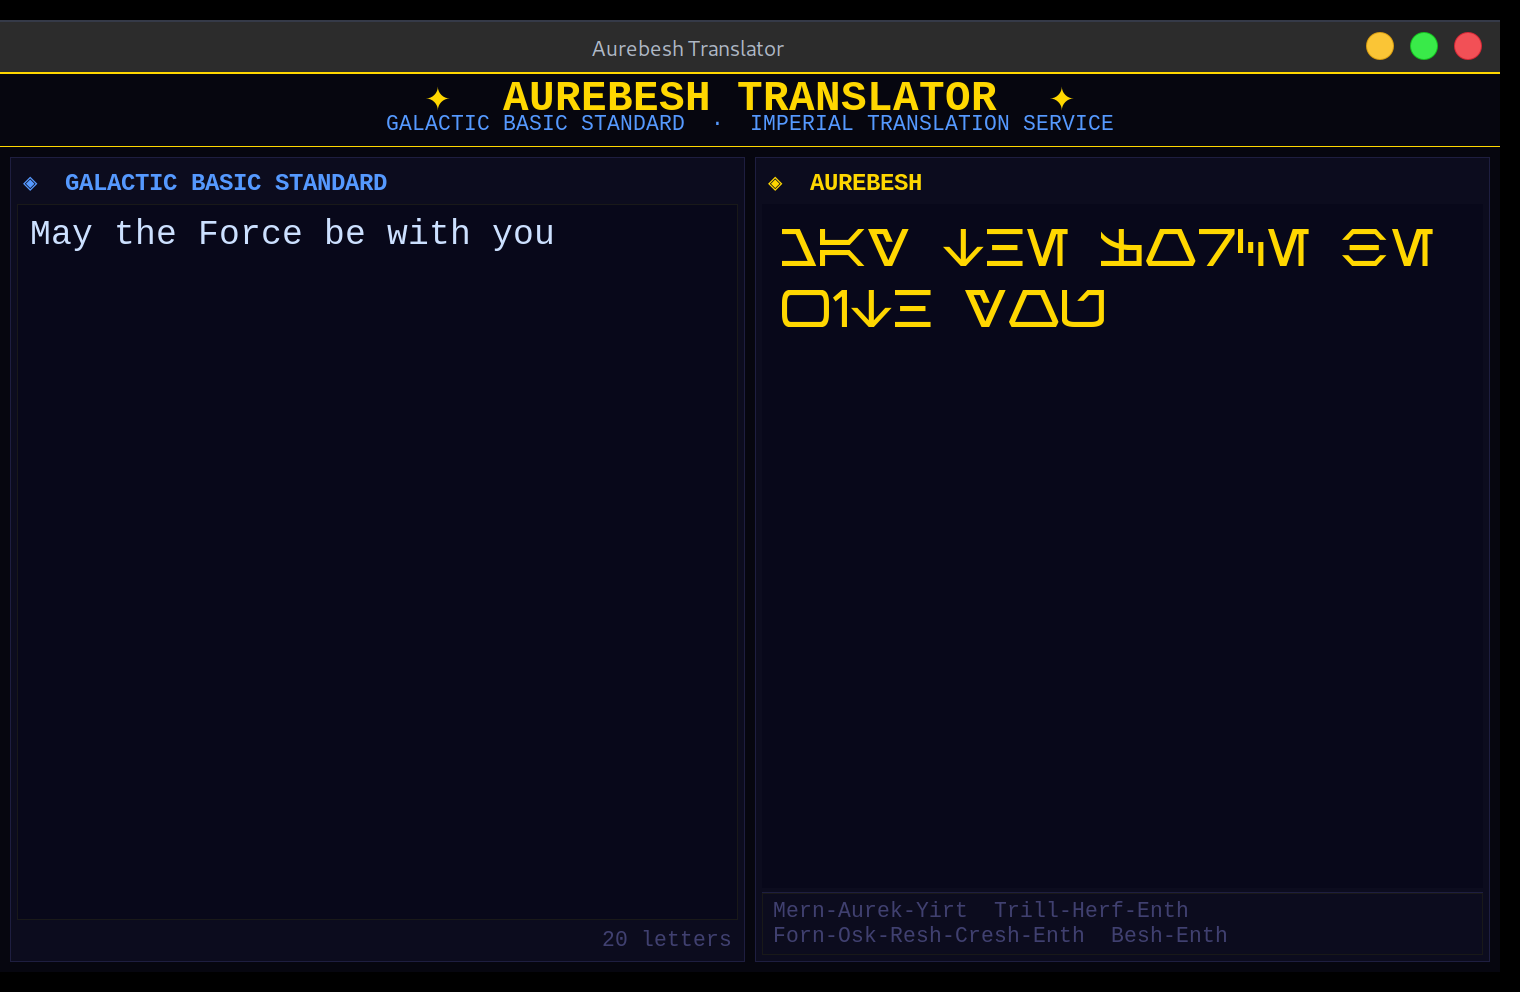
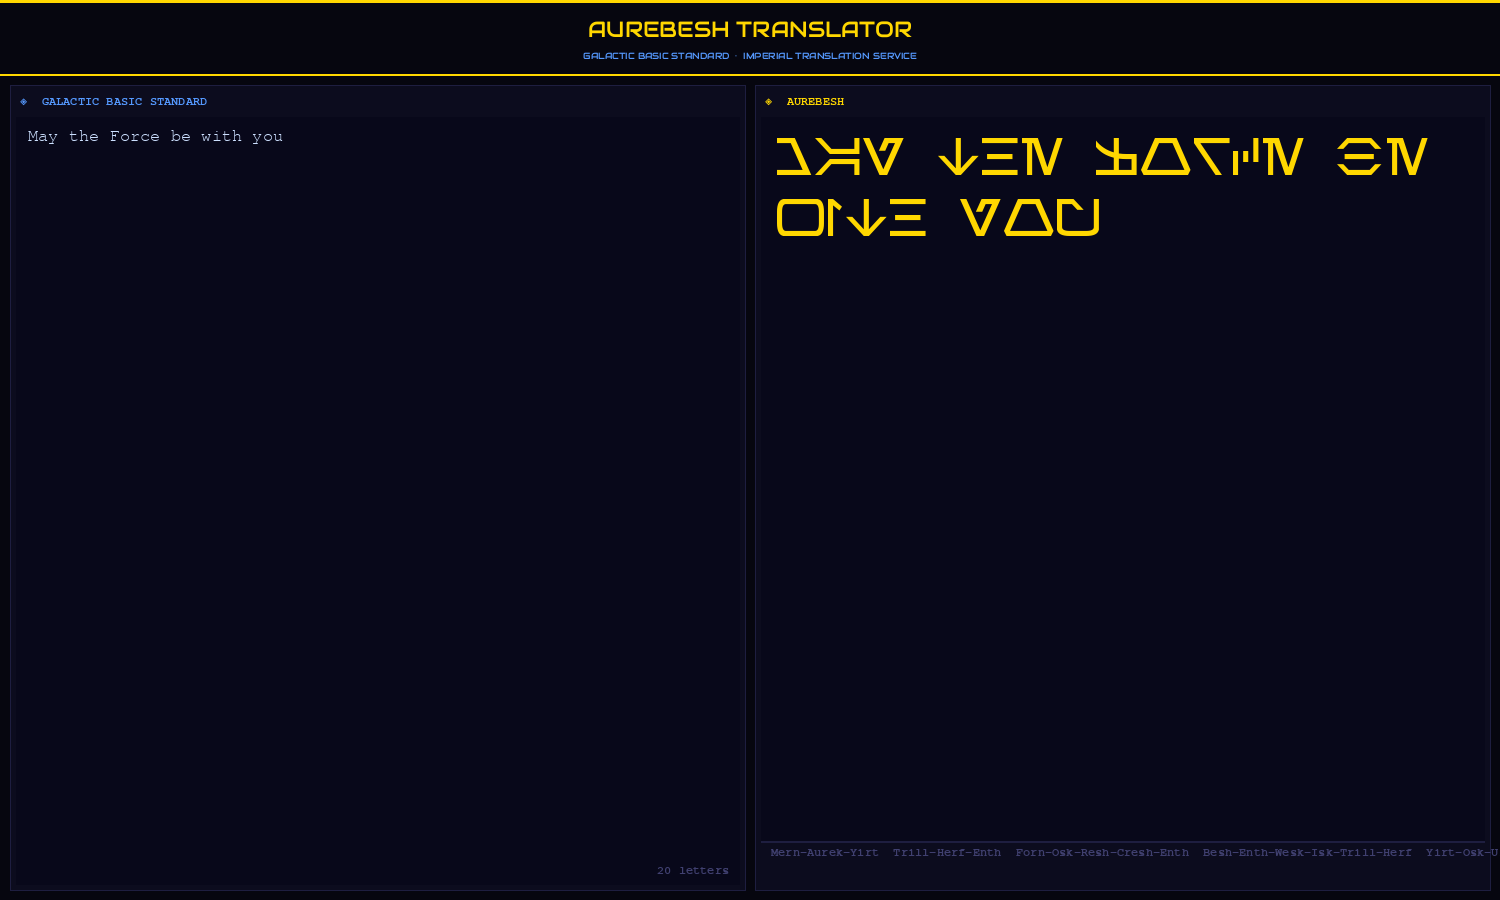
Use Audiowide font for title bar; update screenshot

Changed region(s): [[0.0, 0.0, 1.0, 0.9956]]

diff --git a/tools/gui.py b/tools/gui.py
@@ -72,8 +72,11 @@ class AurebeshApp(tk.Tk):
         self.geometry("1500x900")
         self.minsize(900, 600)
 
-        self.ab_font = ImageFont.truetype(str(FONT_DIR / "Aurebesh.otf"), FONT_SIZE)
-        self._photo: ImageTk.PhotoImage | None = None
+        self.ab_font    = ImageFont.truetype(str(FONT_DIR / "Aurebesh.otf"), FONT_SIZE)
+        self.title_font = ImageFont.truetype(str(FONT_DIR / "Audiowide.ttf"), 22)
+        self.sub_font   = ImageFont.truetype(str(FONT_DIR / "Audiowide.ttf"), 9)
+        self._photo:       ImageTk.PhotoImage | None = None
+        self._title_photo: ImageTk.PhotoImage | None = None
 
         self._build_ui()
 
@@ -99,13 +102,35 @@ class AurebeshApp(tk.Tk):
 
     def _draw_title(self) -> None:
         c = self.title_canvas
+        w = c.winfo_width() or 1500
+        h = 72
+
+        bg   = _hex_to_rgb(BG)
+        gold = _hex_to_rgb(ACCENT)
+        blue = _hex_to_rgb(BLUE_ACCENT)
+
+        title = "AUREBESH TRANSLATOR"
+        sub   = "GALACTIC BASIC STANDARD  ·  IMPERIAL TRANSLATION SERVICE"
+
+        img  = Image.new("RGB", (w, h), bg)
+        draw = ImageDraw.Draw(img)
+
+        t_asc, t_desc = self.title_font.getmetrics()
+        s_asc, s_desc = self.sub_font.getmetrics()
+        t_h = t_asc + t_desc
+        s_h = s_asc + s_desc
+        gap = 6
+        total = t_h + gap + s_h
+        y0 = (h - total) // 2
+
+        draw.text(((w - self.title_font.getlength(title)) / 2, y0),
+                  title, font=self.title_font, fill=gold)
+        draw.text(((w - self.sub_font.getlength(sub)) / 2, y0 + t_h + gap),
+                  sub, font=self.sub_font, fill=blue)
+
+        self._title_photo = ImageTk.PhotoImage(img)
         c.delete("all")
-        w = c.winfo_width() or 1000
-        c.create_text(w // 2, 24, text="✦  AUREBESH TRANSLATOR  ✦",
-                      font=("Courier New", 16, "bold"), fill=ACCENT, anchor="center")
-        c.create_text(w // 2, 50,
-                      text="GALACTIC BASIC STANDARD  ·  IMPERIAL TRANSLATION SERVICE",
-                      font=("Courier New", 8), fill=BLUE_ACCENT, anchor="center")
+        c.create_image(0, 0, anchor="nw", image=self._title_photo)
 
     def _panel(self, parent: tk.Frame, col: int) -> tk.Frame:
         outer = tk.Frame(parent, bg=BORDER)
